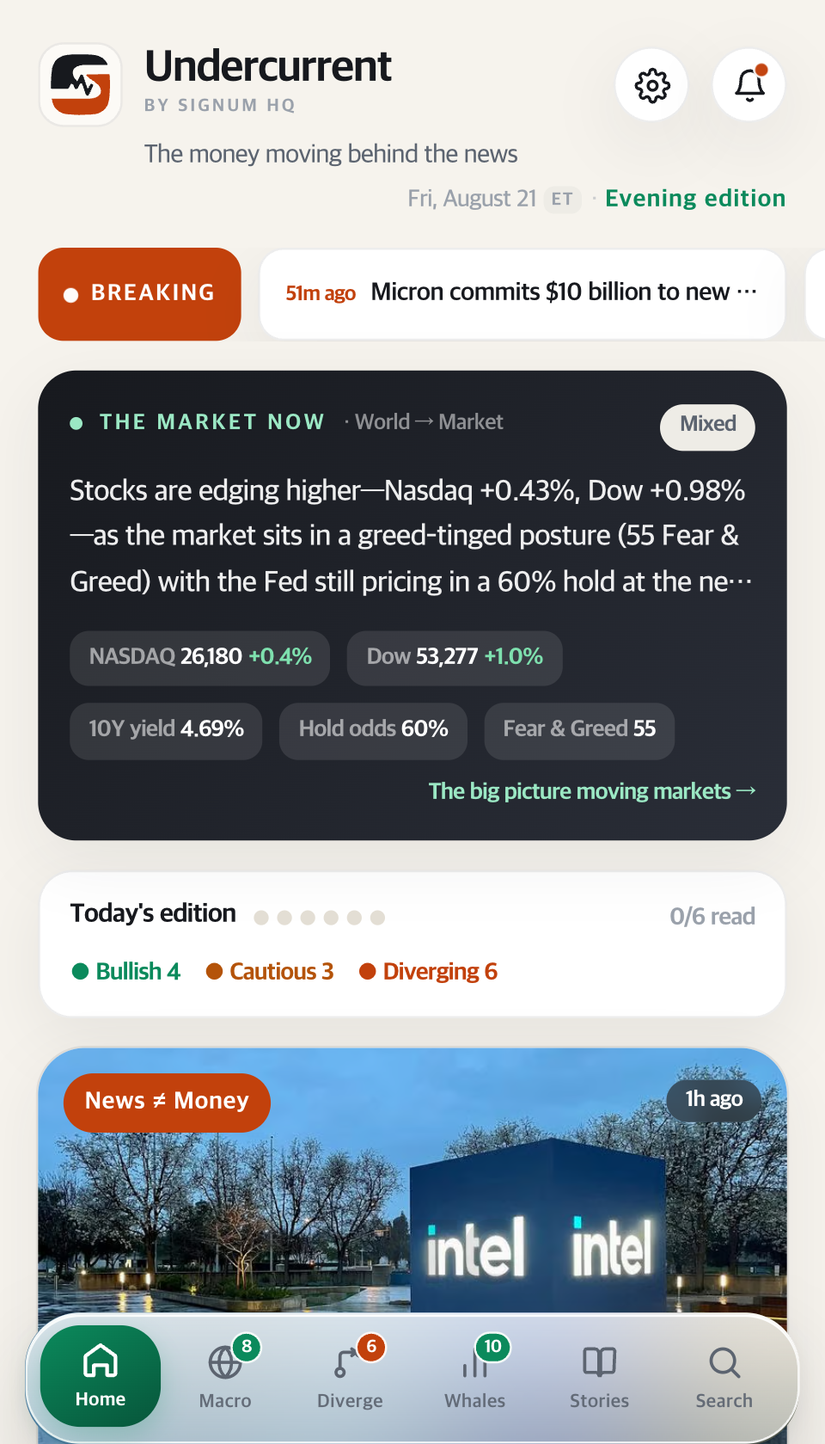
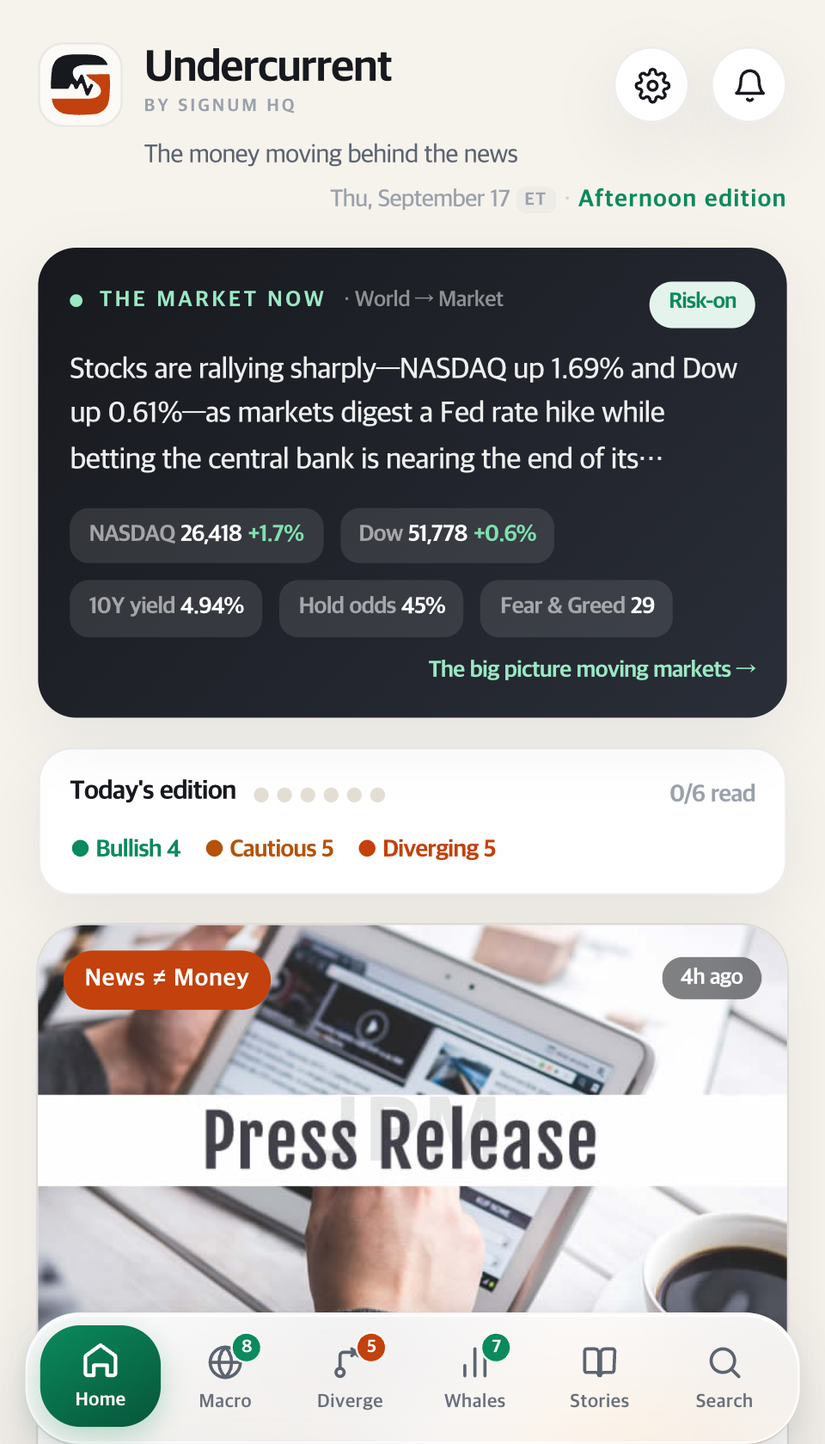
마케팅 사이클 10: 홍보문구 36칸(전부 비어 있었다) + CPP 3앱 제출
App Store promotionalText 가 3앱×12로케일 = 36칸 전부 빈 문자열이었다.
이 칸은 새 빌드도 심사도 필요 없다(실측: 쓴 뒤에도 READY_FOR_DISTRIBUTION
유지). 한 칸으로 검증하고 36칸을 채워 재확인 0빈칸.
→ 스토어 필드를 빌드 필요 / 심사 필요 / 즉시·무심사 로 갈라 본다(§35).

맞춤 제품 페이지(CPP)를 3앱 전부 만들어 제출(앱당 35개·무료·검색광고
광고그룹에 붙는다). 절차를 scripts/asc_custom_product_page.py 로 정본화.

CPP 를 한 번 잘못 만들어 취소·교체했다: 스크린샷을 기본 등록정보와 같은
파일로 올리면 차별점이 홍보문구뿐이라 존재 이유가 없다(§36).
PATCH reviewSubmissions {canceled:true} 로 즉시 되돌아오고, 세트를 지우고
오디언스용 캡션으로 다시 렌더해 재제출했다.

UC 원본이 8월 21일자(나스닥 26,180)여서 make-promo-shots.js uc 로 새로
캡처한 뒤 올렸다. WIM 은 날짜가 없는 상록 화면이라 기존 캡처를 썼다.
합성 결과의 가로 밴드 표준편차로 «빈 스켈레톤»을 자동 검사하게 했다 —
영어 dash 원본이 또 섹터 칸이 비어 있어 heatmap 으로 교체.

긱뉴스는 09-25 해금이라 Show 글 초안을 완성해 뒀다(기술 실측 4건).
틱톡은 t187(개인 계정) 미해결이라 집행하지 않았다.

diff --git a/scripts/asc_custom_product_page.py b/scripts/asc_custom_product_page.py
@@ -1,0 +1,128 @@
+#!/usr/bin/env python3
+# ============================================================================
+# asc_custom_product_page — App Store «맞춤 제품 페이지(CPP)»를 API 로 끝까지 만든다.
+# ----------------------------------------------------------------------------
+# 왜 필요했나 (2026-09-18 실측): 3앱 모두 CPP 0건이었다. CPP 는 앱당 35개까지
+#   «자기 URL(?ppid=…)»을 갖고, 스크린샷·홍보문구를 따로 둘 수 있고,
+#   애플 검색광고 광고그룹에 붙일 수 있다. 전부 무료다.
+#
+# 절차:
+#   ① POST /appCustomProductPages — 버전·로케일을 «인라인»으로 함께 보내야 한다.
+#      (둘 다 필수 관계다. 따로 만들면 409 RELATIONSHIP.REQUIRED)
+#   ② POST /appScreenshotSets — 관계는 appCustomProductPageLocalization
+#   ③ POST /appScreenshots → PUT uploadOperations → PATCH uploaded+md5
+#      (appScreenshots 는 sourceFileChecksum 이 «있다». appEventScreenshots 와 다르다)
+#   ④ COMPLETE 폴링 → reviewSubmissions + items(appCustomProductPageVersion) → submitted
+#
+# 함정:
+#   · 스크린샷을 «기본 등록정보와 같은 것»으로 올리면 CPP 의 존재 이유가 없어진다.
+#     오디언스에 맞춘 캡션으로 새로 렌더할 것. (한 번 그렇게 올려 취소·교체했다)
+#   · 제출 취소는 PATCH /reviewSubmissions/{id} {canceled:true} — 즉시 반영되고
+#     CPP 버전이 PREPARE_FOR_SUBMISSION 으로 돌아온다. 그때 세트를 지우고 다시 올린다.
+#   · 홍보문구(promotionalText) 한도 170자. 이름·부제·설명은 CPP 에서 못 바꾼다.
+# ============================================================================
+import hashlib, json, os, sys, time, urllib.request
+sys.path.insert(0, os.path.dirname(os.path.abspath(__file__)))
+from asc_client import call
+
+DISPLAY = os.environ.get('ASC_DISPLAY_TYPE', 'APP_IPHONE_65')
+
+
+def _upload(set_id, path):
+    blob = open(path, 'rb').read()
+    r = call('POST', '/appScreenshots', {'data': {'type': 'appScreenshots',
+        'attributes': {'fileSize': len(blob), 'fileName': os.path.basename(path)},
+        'relationships': {'appScreenshotSet': {'data': {'type': 'appScreenshotSets', 'id': set_id}}}}})
+    if '__error__' in r:
+        print('      ✗ 예약', r['body'][:160].replace('\n', ' ')); return False
+    sid = r['data']['id']
+    for op in r['data']['attributes']['uploadOperations']:
+        q = urllib.request.Request(op['url'], data=blob[op['offset']:op['offset'] + op['length']],
+                                   method=op['method'])
+        for h in op.get('requestHeaders', []):
+            q.add_header(h['name'], h['value'])
+        try:
+            urllib.request.urlopen(q).read()
+        except Exception as e:                                   # noqa: BLE001
+            print('      ✗ 전송', e); return False
+    p = call('PATCH', f'/appScreenshots/{sid}', {'data': {'type': 'appScreenshots', 'id': sid,
+        'attributes': {'uploaded': True, 'sourceFileChecksum': hashlib.md5(blob).hexdigest()}}})
+    return '__error__' not in p
+
+
+def create(app_id: str, spec: dict):
+    locs = list(spec['locales'].keys())
+    body = {'data': {'type': 'appCustomProductPages', 'attributes': {'name': spec['name']},
+        'relationships': {'app': {'data': {'type': 'apps', 'id': app_id}},
+            'appCustomProductPageVersions': {'data': [
+                {'type': 'appCustomProductPageVersions', 'id': '${v}'}]}}},
+        'included': [
+            {'type': 'appCustomProductPageVersions', 'id': '${v}',
+             'attributes': {'deepLink': spec['deepLink']},
+             'relationships': {'appCustomProductPageLocalizations': {'data': [
+                 {'type': 'appCustomProductPageLocalizations', 'id': f'${{l{i}}}'} for i in range(len(locs))]}}},
+        ] + [
+            {'type': 'appCustomProductPageLocalizations', 'id': f'${{l{i}}}',
+             'attributes': {'locale': loc, 'promotionalText': spec['locales'][loc]['promo']}}
+            for i, loc in enumerate(locs)
+        ]}
+    r = call('POST', '/appCustomProductPages', body)
+    if '__error__' in r:
+        print('✗ CPP 생성:', r['body'][:500]); return None
+    cpp = r['data']
+    ver = next(x['id'] for x in r['included'] if x['type'] == 'appCustomProductPageVersions')
+    loc_ids = {}
+    for x in r['included']:
+        if x['type'] == 'appCustomProductPageLocalizations':
+            loc_ids[x['attributes']['locale']] = x['id']
+    print(f"✓ CPP {cpp['id']}  {cpp['attributes']['name']}")
+    print(f"  URL {cpp['attributes'].get('url')}")
+
+    sets = {}
+    for loc, lid in loc_ids.items():
+        s = call('POST', '/appScreenshotSets', {'data': {'type': 'appScreenshotSets',
+            'attributes': {'screenshotDisplayType': DISPLAY},
+            'relationships': {'appCustomProductPageLocalization': {
+                'data': {'type': 'appCustomProductPageLocalizations', 'id': lid}}}}})
+        if '__error__' in s:
+            print(f'   ✗ {loc} 세트:', s['body'][:160].replace('\n', ' ')); continue
+        sets[loc] = s['data']['id']
+        print(f'   ✓ {loc} 세트 ({len(spec["locales"][loc]["shots"])}장)')
+        for p in spec['locales'][loc]['shots']:
+            print(f"      {'✓' if _upload(sets[loc], p) else '✗'} {os.path.basename(p)}")
+
+    for i in range(1, 8):
+        bad = []
+        for loc, s in sets.items():
+            g = call('GET', f'/appScreenshotSets/{s}/appScreenshots')
+            for d in g.get('data', []):
+                st = d['attributes'].get('assetDeliveryState', {})
+                if st.get('state') != 'COMPLETE':
+                    bad.append(f"{loc}:{st.get('state')}{st.get('errors') or ''}")
+        if not bad:
+            print(f'   ✓ 에셋 COMPLETE ({i}회차)'); break
+        print(f'   {i}회차 대기 {len(bad)}장'); time.sleep(12)
+    else:
+        print('✗ 에셋 미완 — 제출 보류'); return cpp['id']
+
+    sub = call('POST', '/reviewSubmissions', {'data': {'type': 'reviewSubmissions',
+        'attributes': {'platform': 'IOS'},
+        'relationships': {'app': {'data': {'type': 'apps', 'id': app_id}}}}})
+    if '__error__' in sub:
+        print('✗ 제출건:', sub['body'][:300]); return cpp['id']
+    sid = sub['data']['id']
+    it = call('POST', '/reviewSubmissionItems', {'data': {'type': 'reviewSubmissionItems',
+        'relationships': {'reviewSubmission': {'data': {'type': 'reviewSubmissions', 'id': sid}},
+                          'appCustomProductPageVersion': {
+                              'data': {'type': 'appCustomProductPageVersions', 'id': ver}}}}})
+    if '__error__' in it:
+        print('✗ 항목:', it['body'][:600]); return cpp['id']
+    f = call('PATCH', f'/reviewSubmissions/{sid}',
+             {'data': {'type': 'reviewSubmissions', 'id': sid, 'attributes': {'submitted': True}}})
+    print('   ' + ('✓ 심사 제출 ' + str(f['data']['attributes'].get('state'))
+                   if '__error__' not in f else '✗ 제출 ' + f['body'][:200]))
+    return cpp['id']
+
+
+if __name__ == '__main__':
+    create(sys.argv[1], json.load(open(sys.argv[2])))

diff --git a/.agent/marketing/OUTREACH-LOG.md b/.agent/marketing/OUTREACH-LOG.md
@@ -7039,3 +7039,47 @@ SIGNUM Play 실측(grow-overview·store-listings):
 - **t185 지식iN 프로필 정보공개 동의** — `kin.naver.com/myinfo/namecardProfileForm.naver` 에서 체크 하나. 지금 지식iN 답변 4건은 클릭 경로가 0 이다(본문 링크 금지 채널).
 - **t186 Play 맞춤 등록정보 활성화** — `storeRedirect.ts` 39~44행에 `&listing=<from>` 한 줄. 없으면 오늘 만든 등록정보가 트래픽을 못 받는다.
 - **t187 틱톡 계정 전환** — ego lite 세션이 개인 계정(`@daldalkelly`)이다. `@signumhq` 로 로그인해 주시고, 개인 계정에 남은 우리 게시물 2건(8/31 공개 68회 · 9/18 검토중) 처리 방침을 주시면 따릅니다.
+
+---
+
+# 사이클 10 — 2026-09-18 06:2x KST
+
+게이트 341건 0실패. 크론 정상.
+
+## ✅✅ 홍보문구 36칸이 «전부» 비어 있었다 — 빌드도 심사도 없이 채웠다
+App Store `promotionalText` 는 제품 페이지 **최상단 170자**다. **3앱 × 12로케일 = 36칸이 전부 빈 문자열**이었다. 그리고 이 칸은 **새 빌드도 심사도 필요 없다** — 한 칸으로 먼저 검증했고(쓰고 나서도 버전 상태가 `READY_FOR_DISTRIBUTION` 그대로), 그 다음 36칸을 다 채우고 **다시 읽어서 빈칸 0개**를 확인했다.
+
+- SIGNUM en 「Free, no signup. Premarket and after-hours prices with the session labeled, this week's earnings times, and a plain-language brief after every close.」
+- UC ko 「무료, 가입 없음. 시장 뉴스를 쉬운 말로 — 무슨 일이 있었고 왜 중요한지. 그리고 그 뉴스가 나올 때 돈은 어디로 움직였는지.」
+- WIM ja 「無料・登録不要。実際に動いた銘柄ひとつ、理由は四つ、答えは一つ。毎日新しい問題 — 読むのではなく当てながら学べます。」
+
+**왜 이걸 놓치고 있었나**: 「이름 바꾸려면 빌드가 있어야 한다」에 막혀 ASO 를 미루는 동안, 아무 게이트 없는 170자가 36칸 비어 있었다. 이제 스토어 필드를 세 종류로 갈라 본다 — **빌드 필요**(이름·부제·키워드) / **심사 필요**(스크린샷·설명·CPP) / **즉시·무심사**(promotionalText). (ENGINE §35)
+
+## ✅ 맞춤 제품 페이지(CPP) 3앱 전부 제출 — 무료·앱당 35개
+| 앱 | ppid | 로케일 | 상태 |
+|---|---|---|---|
+| SIGNUM | `a0522489…` | en·ko·ja | WAITING_FOR_REVIEW |
+| UC | `f2559d55…` | en·ko·ja | WAITING_FOR_REVIEW |
+| WIM | `4347070b…` | en | WAITING_FOR_REVIEW |
+
+CPP 는 자기 URL(`?ppid=`)을 갖고 스크린샷·홍보문구를 따로 두며 **애플 검색광고 광고그룹에 붙는다.** 전부 0건이었다. 재사용 정본 `scripts/asc_custom_product_page.py` 로 정리했다(생성→세트→업로드→COMPLETE 폴링→제출 5단계).
+
+**한 번 잘못 만들고 취소해서 고쳤다**: 처음엔 스크린샷을 **기본 등록정보와 똑같은 파일**로 올렸다. 그러면 차별점이 홍보문구뿐이고 CPP 의 존재 이유가 없다. `PATCH /reviewSubmissions {canceled:true}` 로 취소하니 즉시 `PREPARE_FOR_SUBMISSION` 으로 돌아왔고, 세트를 지우고 **오디언스용 캡션으로 다시 렌더**해 재제출했다 — 「가입 없이 바로 / 미국 시장 전체」, 「종목 하나를 / 쉬운 말로」, 「매일 마감 후 / 무슨 일이 있었는지」. (ENGINE §36)
+
+**UC 는 원본이 8월 21일자였다.** 나스닥 26,180(오늘 29,739)과 「8월 21일 이브닝 에디션」이 화면에 찍혀 있었다 — 스토어에 낡은 날짜를 올리지 않는다. `node scripts/make-promo-shots.js uc` 로 **새로 캡처**해서(9월 17일 애프터눈 에디션) 다시 렌더한 뒤 올렸다.
+**WIM 은 8/22 캡처를 그대로 썼다** — 퀴즈 화면에 날짜가 없는 상록 화면(예시 문항)이라 낡음이 드러나지 않는다. 근거를 보고 판단했다.
+
+**결함 원본 자동 검사법을 만들었다**: 합성 결과의 가로 밴드 3개(상·중·하) 밝기 표준편차가 10 미만이면 «스켈레톤 의심». 영어 dash 원본이 **또** 섹터 칸이 빈 상태로 찍혀 있었고(지난 사이클과 같은 결함) heatmap 으로 교체했다. 자동 검사 + 눈으로 한 장이 가장 싼 조합이다.
+
+## ⛔ 뚫기·나머지 — 상태 그대로, 근거와 함께
+- **긱뉴스**: 해금 09-25(원문 「가입 후 일주일」). 재확인 대신 **해금 즉시 등록할 Show 글을 완성**해 뒀다 → `.agent/marketing/drafts/geeknews-show-2026-09-25.md`. 기술 독자용으로 「벤더 끊김이 에러 없이 틀린 숫자를 남긴다」·「나이는 거래일로 잰다」·「3개 언어가 고정폭을 깬다」·「Capacitor server.url 은 경로 접두사다」 네 가지 실측을 본문으로 썼다. 앱 자랑이 아니라 내가 밟은 함정이 본문이다.
+- **에펨코리아·하테나 북마크**: 계정 게이트(대표). 1시간 전 직접 열어 확인했고 변화 없음 — 같은 날 안에서 중복 확인은 하지 않는다.
+- **틱톡**: **t187 미해결이라 집행하지 않았다.** ego lite 세션이 개인 계정(`@daldalkelly`)이므로 또 올리면 개인 계정에 우리 홍보물이 하나 더 쌓인다. 계정 전환 전까지 중단.
+
+## 확장 — 이번 사이클 신규 표면 = CPP
+두 사이클 연속으로 «한 번도 안 쓴 무료 스토어 표면»이 나왔다: 인앱이벤트(§31) → Play 맞춤 등록정보(§10) → CPP(§12) → 홍보문구(§13). 공통점은 **전부 스토어가 먼저 주는 자리이고, 청중이 없어도 작동한다**는 것이다. 청중을 요구하는 채널(X·프로덕트헌트·틱톡)에서 소모한 시간보다 이쪽이 훨씬 싸다.
+
+## 대표님께 (티켓 갱신)
+- **t186** 이제 **두 개를 한 번에** 켠다 — `src/lib/marketing/storeRedirect.ts` 에서 ①Play 에 `&listing=<from>` ②App Store 에 `&ppid=<uuid>`. 이 한 곳이 오늘 만든 Play 맞춤 등록정보 1개 + CPP 3개를 모두 살린다. 지금은 트래픽이 0 이다.
+- **t185** 지식iN 프로필 「정보 공개 동의」 체크(클릭 경로 0).
+- **t187** 틱톡 `@signumhq` 로그인 전환 + 개인 계정에 남은 우리 게시물 2건 처리 방침.

diff --git a/.agent/marketing/PLATFORM-PLAYBOOK.md b/.agent/marketing/PLATFORM-PLAYBOOK.md
@@ -275,3 +275,41 @@ Badges `/product/badge/getBadgeList.as` · Coupons `/product/promotion/promotion
 - 사진 게시 절차: `tiktokstudio/upload` → **「사진」 탭** → `setInputFiles('input[type=file]', [3장])` → 제목(90) + 본문(4000, contenteditable) → **스크롤 후** 「게시」.
 - 게시 직후 상태는 **「콘텐츠 검토 중 · 나만」** — 「게시물 수 1→2」는 제출 증거이고 공개 증거가 아니다.
 - **대표 확인 필요(t187)**: `@signumhq` 로 로그인 전환 + 개인 계정에 남은 우리 게시물 2건(8/31 공개·9/18 검토중) 처리 방침.
+
+---
+
+## 12. App Store 맞춤 제품 페이지 (CPP)  ✅2026-09-18 3앱 전부 제출
+**계정** ASC API 키 · **태그** `?ppid=<uuid>` · **채널 등급** A(무료·앱당 35개·검색광고 광고그룹에 붙일 수 있음)
+
+### 왜 이 채널인가
+CPP 는 **자기 URL(`?ppid=…`)** 을 갖고 **스크린샷·앱 프리뷰·홍보문구를 따로** 둘 수 있다. 기본 등록정보는 검색어에 묶이지만 CPP 는 안 묶이므로 «순수 설득»으로 쓸 수 있다. 애플 검색광고 광고그룹에도 붙는다. 앱당 35개, 전부 무료. 3앱 모두 0건이었다.
+
+### 절차 — `python3 scripts/asc_custom_product_page.py <앱ID> <스펙.json>`
+1. `POST /appCustomProductPages` — **버전과 로케일을 «인라인»으로 함께** 보낸다(`included` + `${}` 링키지). 둘 다 필수 관계라 따로 만들면 409 `RELATIONSHIP.REQUIRED`
+2. `POST /appScreenshotSets` — 관계는 **`appCustomProductPageLocalization`**, `screenshotDisplayType: APP_IPHONE_65`
+3. `POST /appScreenshots` → `PUT` uploadOperations → `PATCH {uploaded:true, sourceFileChecksum}`
+   (**`appScreenshots` 에는 `sourceFileChecksum` 이 있다.** `appEventScreenshots` 와 다르다 — §31)
+4. `assetDeliveryState == COMPLETE` 폴링
+5. `POST /reviewSubmissions` → `POST /reviewSubmissionItems`(**`appCustomProductPageVersion`** 관계) → `PATCH {submitted:true}`
+
+### 규격·한도
+- 스크린샷 6.5" = **1242×2688**. 렌더는 `scripts/compose-promo-shots.py` + `{canvas:{1242,2688}, appSize:{1100,2280}}`
+- `promotionalText` **170자**. 이름·부제·설명은 CPP 에서 **못 바꾼다**
+- 앱당 35개
+
+### 제출 취소·교체 (실제로 했다)
+`PATCH /reviewSubmissions/{id} {canceled:true}` → 즉시 `CANCELING`, CPP 버전이 `PREPARE_FOR_SUBMISSION` 으로 복귀 → `DELETE /appScreenshotSets/{id}` → 새로 업로드 → 재제출. **기본 등록정보와 같은 스크린샷을 올리면 CPP 가 무의미하다**(§36).
+
+### 1호 3건 (2026-09-18)
+| 앱 | ppid | 로케일 | 상태 |
+|---|---|---|---|
+| SIGNUM | `a0522489-c6f8-4050-8e56-bc89b27f0927` | en·ko·ja | WAITING_FOR_REVIEW |
+| UC | `f2559d55-be1a-41a1-989b-5940a5ff4d8a` | en·ko·ja | WAITING_FOR_REVIEW |
+| WIM | `4347070b-174a-4620-bd93-942caca7cf2c` | en | WAITING_FOR_REVIEW |
+
+**활성화** 스마트링크의 App Store URL 에 `&ppid=<uuid>` 를 붙여야 트래픽이 온다 → **t186 에 Play `&listing=` 과 함께 묶었다**(`src/lib/marketing/storeRedirect.ts`).
+
+## 13. App Store 홍보문구 (promotionalText) — 즉시·무심사 170자
+`PATCH /appStoreVersionLocalizations/{id} {promotionalText}`. **새 빌드도 심사도 필요 없다**(실측: 버전 상태 `READY_FOR_DISTRIBUTION` 그대로). 제품 페이지 설명 위에 붙는 최상단 170자다.
+2026-09-18 에 **3앱 × 12로케일 = 36칸이 전부 비어 있었고** 전부 채웠다. ko·ja 는 현지어, 나머지 9개 로케일은 앱 UI 가 영어라 영문을 쓴다.
+스토어 필드는 세 종류로 나눠 본다: **빌드 필요**(이름·부제·키워드) / **심사 필요**(스크린샷·설명·CPP) / **즉시·무심사**(promotionalText).

diff --git a/.agent/marketing/ENGINE.md b/.agent/marketing/ENGINE.md
@@ -909,3 +909,28 @@ ego lite 의 틱톡 세션이 `@signumhq` 인 줄 알고 사진 게시를 올렸
 **핸들을 확정하는 유일한 방법은 «내 콘텐츠의 URL»이다.** 스튜디오 콘텐츠 목록의 `a[href*="/video/"]` 경로에 핸들이 박혀 있다. 프로필 페이지 텍스트·패스포트 API·소개 문구는 전부 근거가 안 된다.
 
 부수 확인: 게시 직후 상태는 **「콘텐츠 검토 중 · 나만」** 이었다 — 틱톡은 심사 중 비공개다. 그래서 «게시물 수 1→2» 는 제출 증거이고 **공개 증거가 아니다.** 공개 확인은 심사 후에 다시 봐야 한다.
+
+---
+
+## §35 홍보문구 36칸이 «전부» 비어 있었다 — 빌드도 심사도 없이 바뀌는 자리 (2026-09-18 06:0x KST)
+
+App Store `promotionalText` 는 설명 위, 제품 페이지 **최상단 170자**다. 3앱 × 12로케일 = **36칸이 전부 빈 문자열**이었다. 그리고 이 칸은 **새 빌드도 심사도 필요 없다** — 실측: `PATCH /appStoreVersionLocalizations/{id}` 로 쓰니 즉시 반영되고 버전 상태가 `READY_FOR_DISTRIBUTION` 그대로였다.
+
+이게 왜 중요한가: 우리가 「이름 바꾸려면 빌드가 있어야 한다」에 막혀 ASO 를 미루는 동안, **아무 게이트 없이 언제든 바꿀 수 있는 170자 × 36칸**이 비어 있었다. 스토어 필드를 「빌드 필요」와 「즉시 가능」으로 나눠서 봐야 한다:
+- **빌드 필요**: 이름·부제·키워드
+- **심사 필요**: 스크린샷·설명·맞춤 제품 페이지
+- **즉시·무심사**: **promotionalText** · 인앱이벤트 문안(제출 전) · Play 등록정보 일부
+
+36칸을 다 채웠다(en 149자 / ko 61~72 / ja 68~72). 앱 우선 문안이고 지표어는 없다.
+
+## §36 CPP 는 «기본 등록정보와 다른 스크린샷»이 있어야 의미가 있다 (2026-09-18 06:1x KST)
+
+맞춤 제품 페이지(CPP)를 만들면서 스크린샷을 **기본 등록정보와 똑같은 파일**로 올렸다. 그러면 차별점이 홍보문구 170자뿐이고 CPP 의 존재 이유가 사라진다. 제출까지 해 놓고 알아채서 **취소하고 교체**했다.
+
+취소는 된다: `PATCH /reviewSubmissions/{id} {canceled:true}` → 즉시 `CANCELING` → **CPP 버전이 `PREPARE_FOR_SUBMISSION` 으로 돌아온다.** 그 상태에서 `DELETE /appScreenshotSets/{id}` 로 세트를 지우고 새로 올려 재제출했다.
+
+교체판은 오디언스에 맞춰 **캡션을 다시 썼다**. 기본 등록정보는 검색어에 묶여 있지만 CPP 는 그렇지 않으므로(Play 맞춤 등록정보와 같은 성질), `from=home` 오디언스용으로 「가입 없이 바로 / 미국 시장 전체」처럼 **마찰 제거**를 앞에 뒀다.
+
+부수로 **결함 원본 자동 검사법**을 만들었다: 합성 결과의 가로 밴드 3개(상·중·하)의 밝기 표준편차를 재서 10 미만이면 «스켈레톤 의심»으로 잡는다. 영어 dash 원본이 섹터 칸이 빈 상태로 또 찍혀 있었고(지난 사이클에도 같은 결함), heatmap 으로 교체했다. **자동 검사 + 눈으로 한 장**이 지금까지 가장 싼 검증 조합이다.
+
+CPP 실무 요약은 `PLATFORM-PLAYBOOK.md` §12, 재사용 정본은 `scripts/asc_custom_product_page.py`.

diff --git a/.agent/marketing/drafts/geeknews-show-2026-09-25.md b/.agent/marketing/drafts/geeknews-show-2026-09-25.md
@@ -1,0 +1,38 @@
+# 긱뉴스 Show 글 — 09-25 해금 즉시 등록 (초안 완성)
+
+**해금 근거(원문)**: `news.hada.io/write` → 「가입 후 일주일이 지나야 작성할 수 있습니다.」 대표 가입 2026-09-18 → **2026-09-25**
+**글 종류**: `Show (프로젝트 소개)` 라디오 (`input[name=type][value=show]`)
+**절차**: `news.hada.io/write` → 종류 Show → 제목 → URL → 내용 → 「확인」. 로그인은 `signumhq(1)` 로 되어 있다.
+
+---
+
+## 제목
+미국 증시 앱을 만들면서 «벤더 대신 규제 원본»으로 바꾼 이야기 (3개 언어·무료)
+
+## URL
+https://www.signumhq.com/app?from=geeknews
+
+## 내용
+
+미국 증시를 보는 앱 세 개를 만들어 운영하고 있습니다. 기술적으로 가장 많이 배운 건 데이터 쪽이라 그 얘기를 적습니다.
+
+**1. 벤더가 끊기면 «에러 없이 틀린 숫자»가 남는다**
+다크풀 거래량을 벤더 API 로 받다가 권한이 끊겼습니다. 문제는 화면이 «비지» 않았다는 것입니다. 파생 지표들이 기본값으로 채워져 그럴듯한 숫자를 계속 보여줬습니다. 200 OK 였고 로그도 조용했습니다. 이후로는 원천을 먼저 찾습니다 — 다크풀은 FINRA, 8-K 는 SEC, 국채는 재무부에 무인증 공개 API 가 있습니다. 벤더는 대개 그걸 재포장합니다.
+
+**2. 「거래일」로 나이를 재야 한다**
+캐시 TTL 을 갱신 주기로 착각해서 분석 결과가 24~35시간 묶인 적이 있습니다. 더 재밌는 건 휴장일이었습니다. 「장이 닫혔으니 마지막 세션 = 어제」라고 가정했더니 표시가 한 세션씩 밀렸고, 어떤 종목은 −4.9% 가 −0.2% 로 보였습니다. 시장 데이터의 나이는 «시간»이 아니라 «거래일»로 재야 합니다.
+
+**3. 3개 언어를 하면 고정폭이 전부 깨진다**
+한국어·영어·일본어를 같이 냈습니다. 같은 문구가 언어마다 1.6배까지 길어져서, 「가장 긴 로케일 기준」으로 폭을 잡고 세 로케일을 기계로 전수 검사하지 않으면 반드시 하나가 잘립니다. 그리고 `<html lang>` 을 하드코딩했다가 한국어 페이지가 통째로 중복 색인된 적도 있습니다.
+
+**4. 앱은 Capacitor 셸 + Next.js 입니다**
+`server.url` 이 «경로 접두사»로 동작하는 걸 몰라서, `allowNavigation` 없이 같은 도메인의 다른 경로로 이동하면 시스템 브라우저가 떴습니다. 「앱은 그대로인데 갑자기 크롬 창이 뜬다」는 버그의 원인이었습니다.
+
+무료이고 가입도 없습니다. 한국어·영어·일본어로 다 볼 수 있습니다. 틀린 부분이나 더 나은 원천이 있으면 알려주세요.
+
+---
+
+## 규칙 점검
+- 예측·투자권유 표현 0 ✓ (수치 해석·단정 없음)
+- 앱 이름 0회, 링크는 URL 칸 1개(긱뉴스는 링크 제출형 사이트라 본문 링크 금지 규칙 대상 아님) ✓
+- 기술 독자에게 실제로 쓸모 있는 내용 4가지 ✓ — 「우리 앱 좋아요」가 아니라 «내가 밟은 함정»이 본문이다
